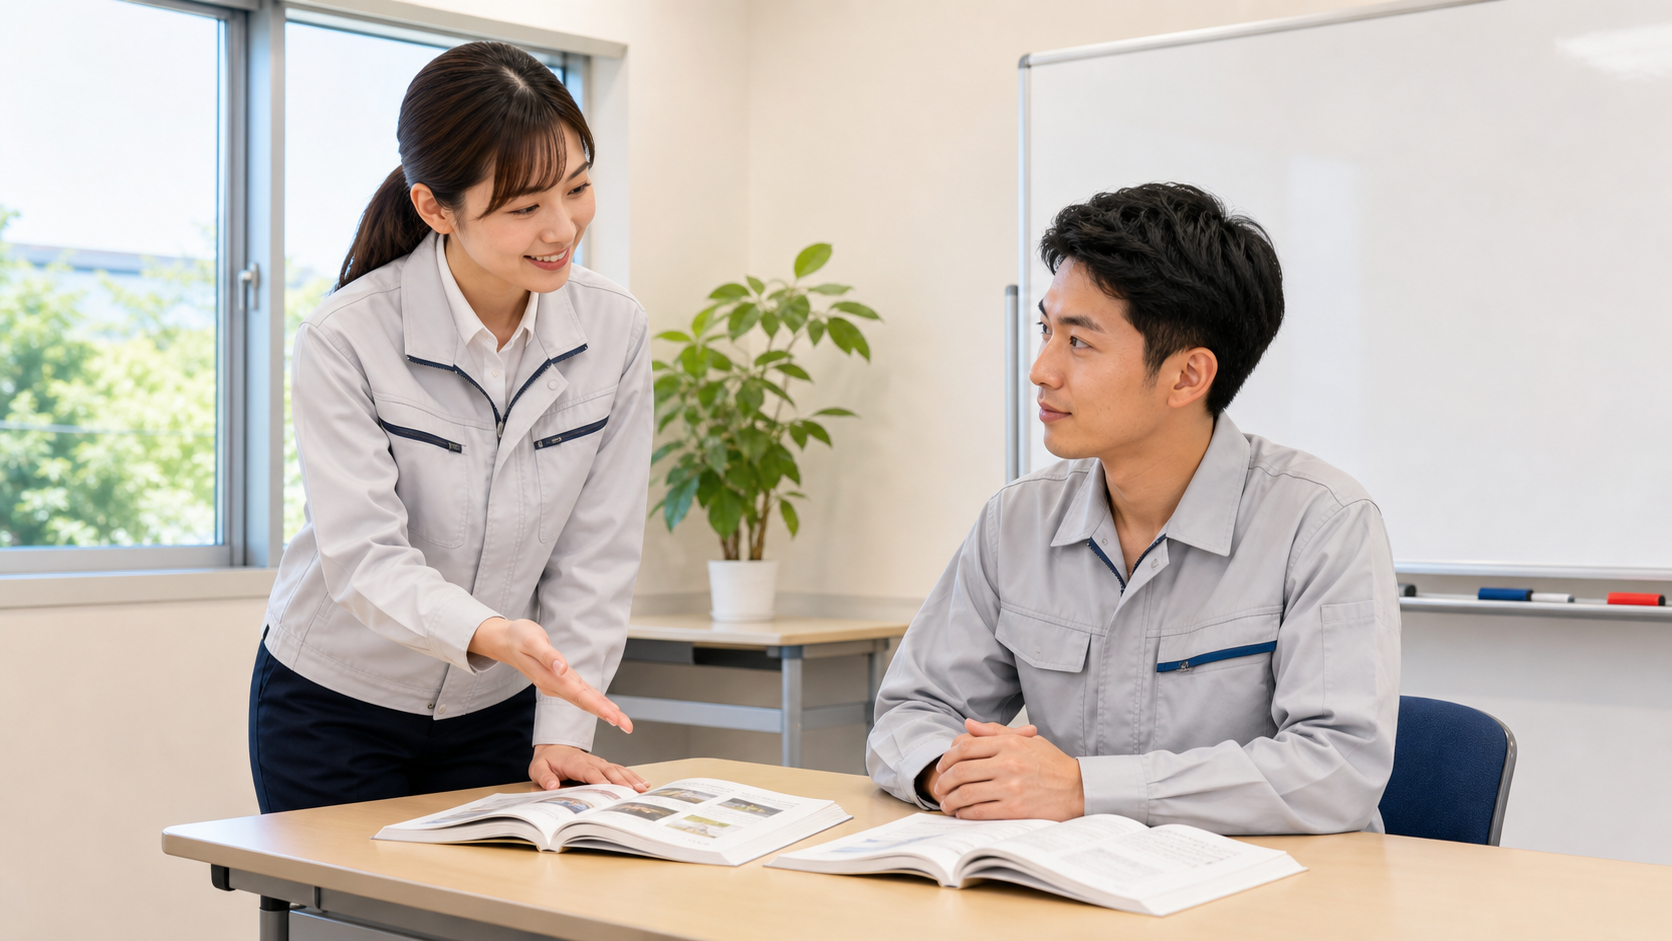
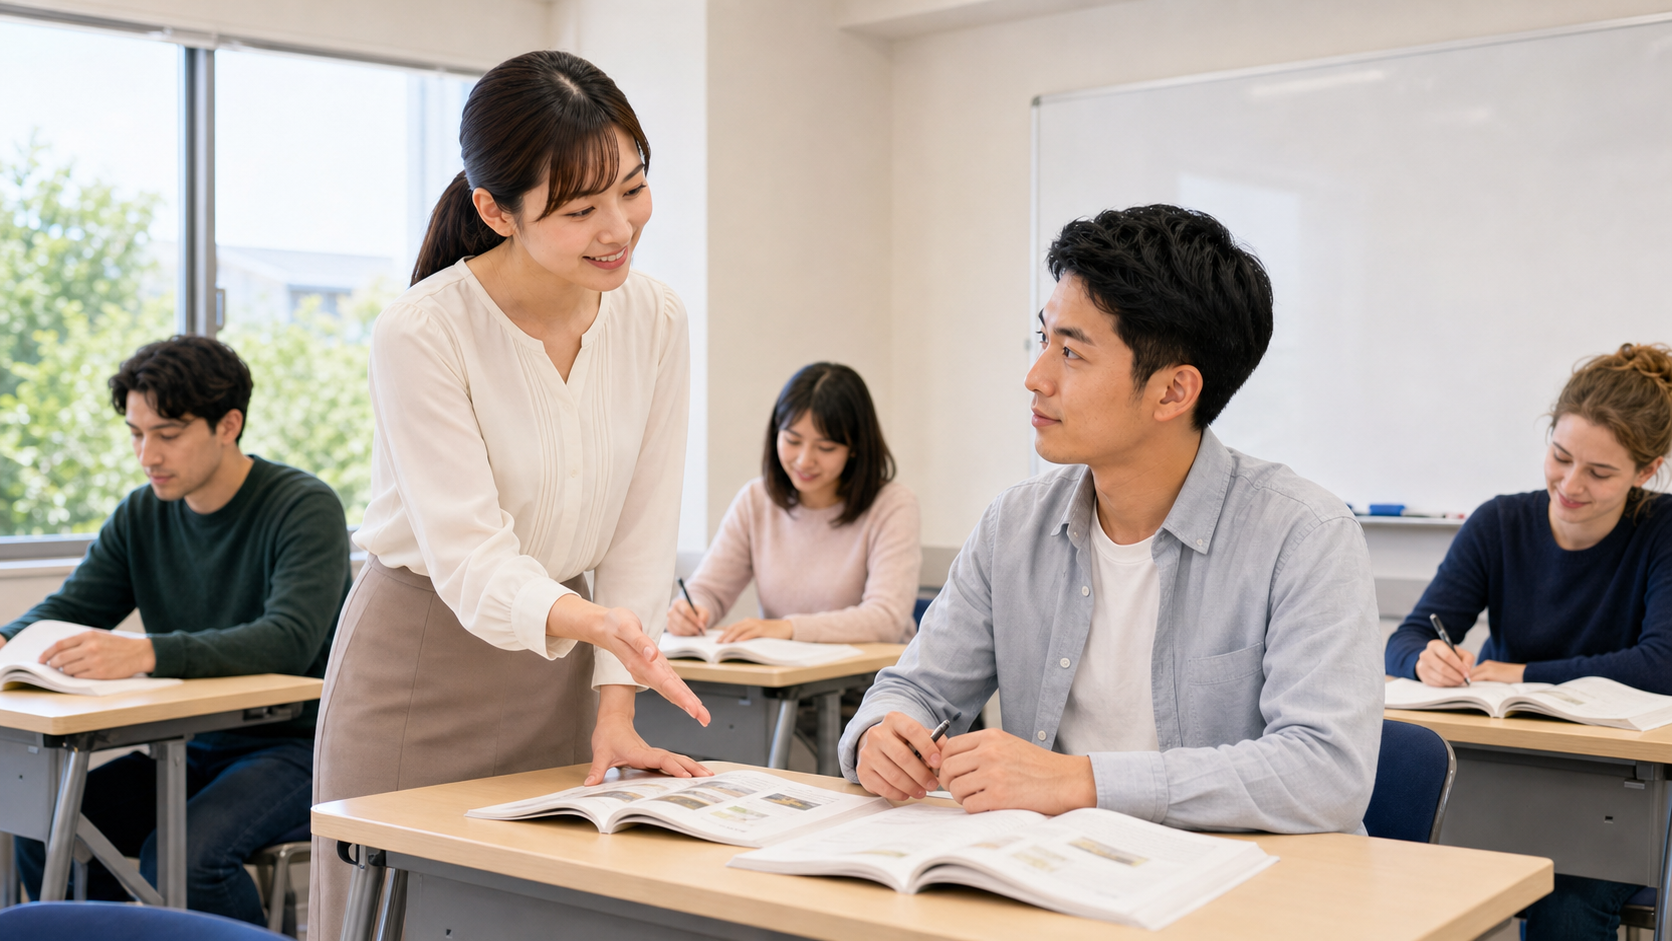
Add visual vocabulary and grammar formats

diff --git a/common/renderer.js b/common/renderer.js
@@ -782,6 +782,12 @@ R.render_word_puzzle = function(q, container) {
     inst.innerHTML = q.instruction;
     block.appendChild(inst);
   }
+  if (q.image_src) {
+    const imgDiv = document.createElement('div');
+    imgDiv.style.cssText = 'text-align:center;margin:10px 0';
+    imgDiv.innerHTML = `<img src="${asset(q.image_src)}" style="width:100%;max-width:860px;max-height:360px;object-fit:contain;border:1px solid #ddd;border-radius:6px">`;
+    block.appendChild(imgDiv);
+  }
   q.puzzles.forEach((p, idx) => {
     const puzzleDiv = document.createElement('div');
     puzzleDiv.style.cssText = 'margin:16px 0;padding:12px;background:#f8f9fa;border-radius:8px';
@@ -1295,6 +1301,9 @@ R.render_audio_image_radio = function(q, container) {
   });
   container.appendChild(block);
 };
+
+// visual_choice: audio_image_radioと同じ画像選択UIを、音声なしで使用する。
+R.render_visual_choice = R.render_audio_image_radio;
 
 // audio_select: 音声+ドロップダウン
 R.render_audio_select = function(q, container) {

diff --git a/test-preview.html b/test-preview.html
@@ -66,7 +66,7 @@
 
 <script src="https://cdn.jsdelivr.net/npm/@supabase/supabase-js@2/dist/umd/supabase.min.js"></script>
 <script src="common/config.js"></script>
-<script src="common/renderer.js?v=20260715-integrated-listening"></script>
+<script src="common/renderer.js?v=20260715-visual-vocabulary-grammar"></script>
 <script src="common/grading.js"></script>
 <script>
 let _token = null;

diff --git a/test.html b/test.html
@@ -87,7 +87,7 @@
 <script src="https://cdn.jsdelivr.net/npm/@supabase/supabase-js@2/dist/umd/supabase.min.js"></script>
 <script src="common/config.js"></script>
 <script src="common/auth.js"></script>
-<script src="common/renderer.js?v=20260715-integrated-listening"></script>
+<script src="common/renderer.js?v=20260715-visual-vocabulary-grammar"></script>
 <script src="common/grading.js"></script>
 <script>
 // ===== テストページ メイン =====